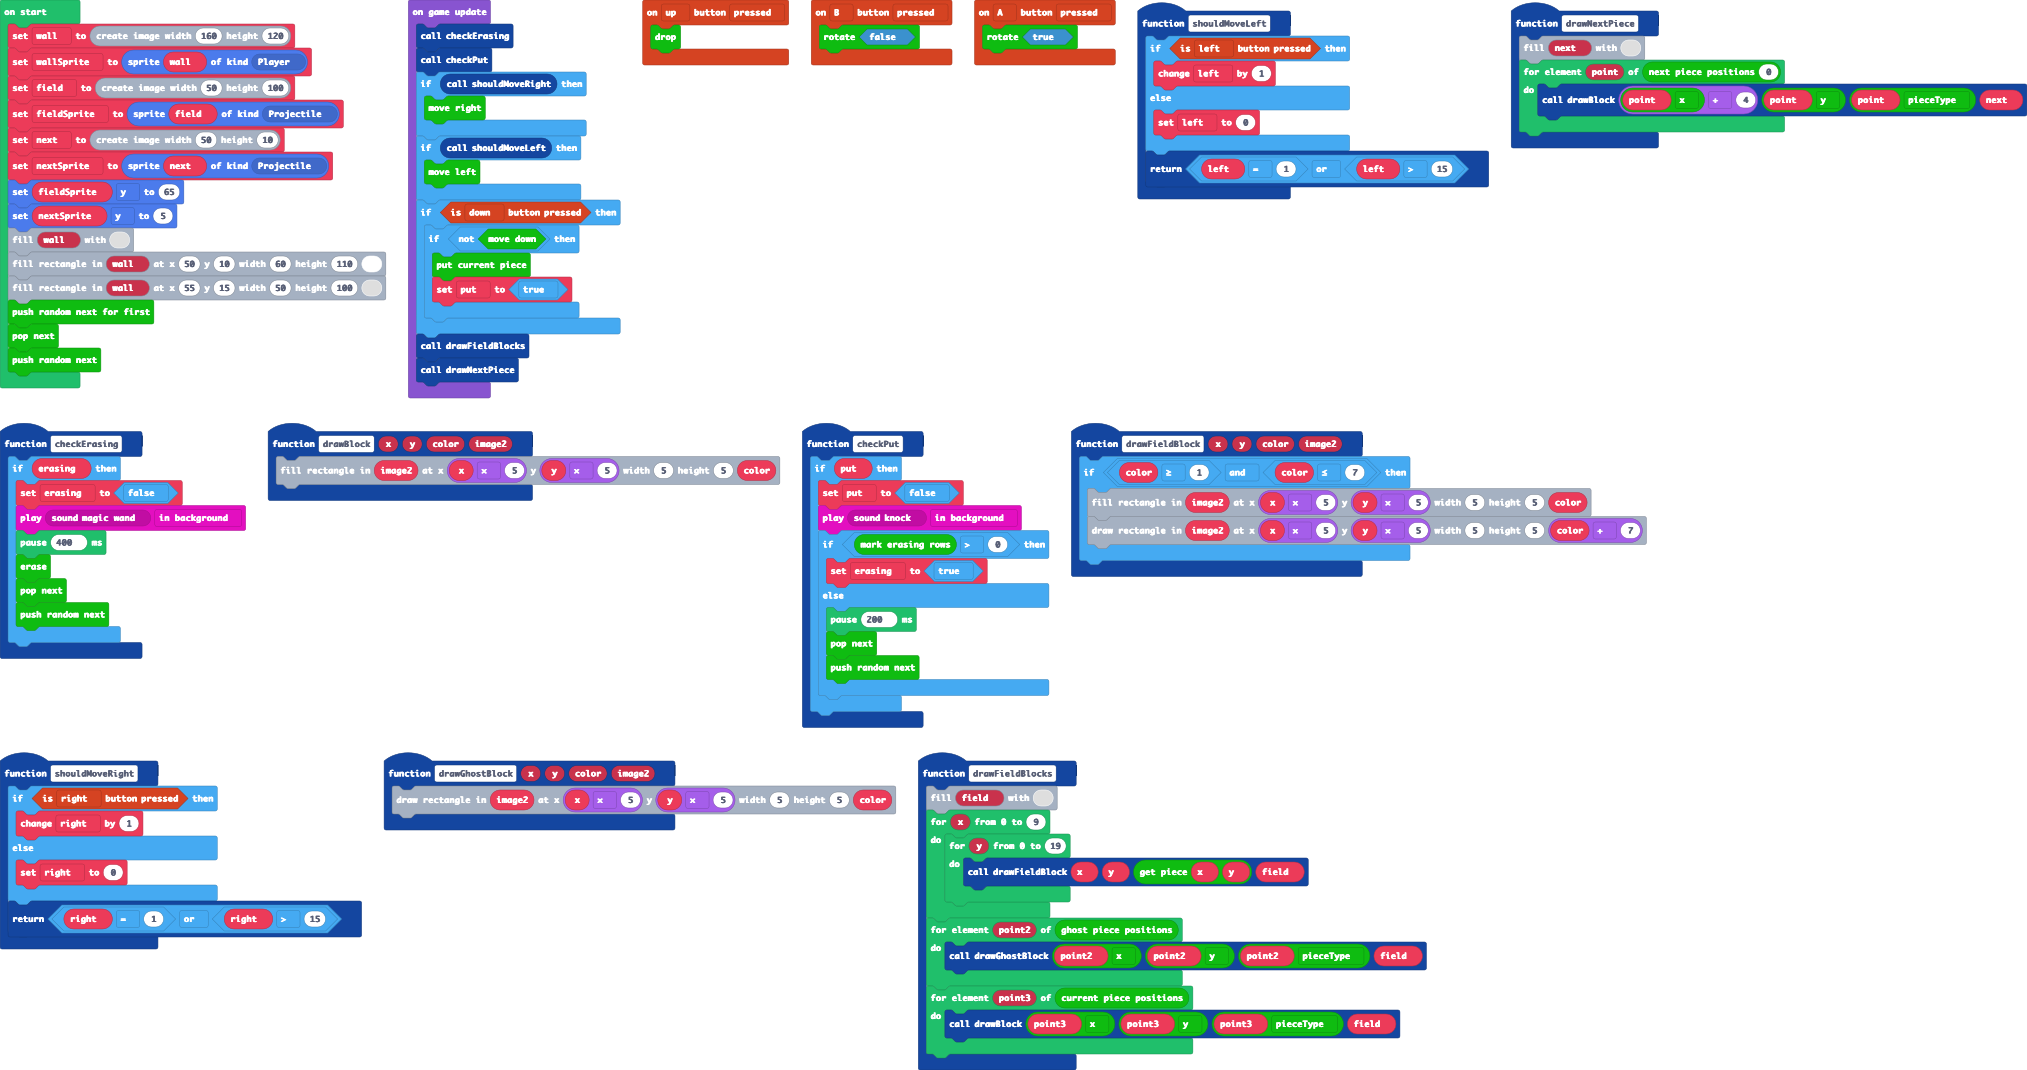
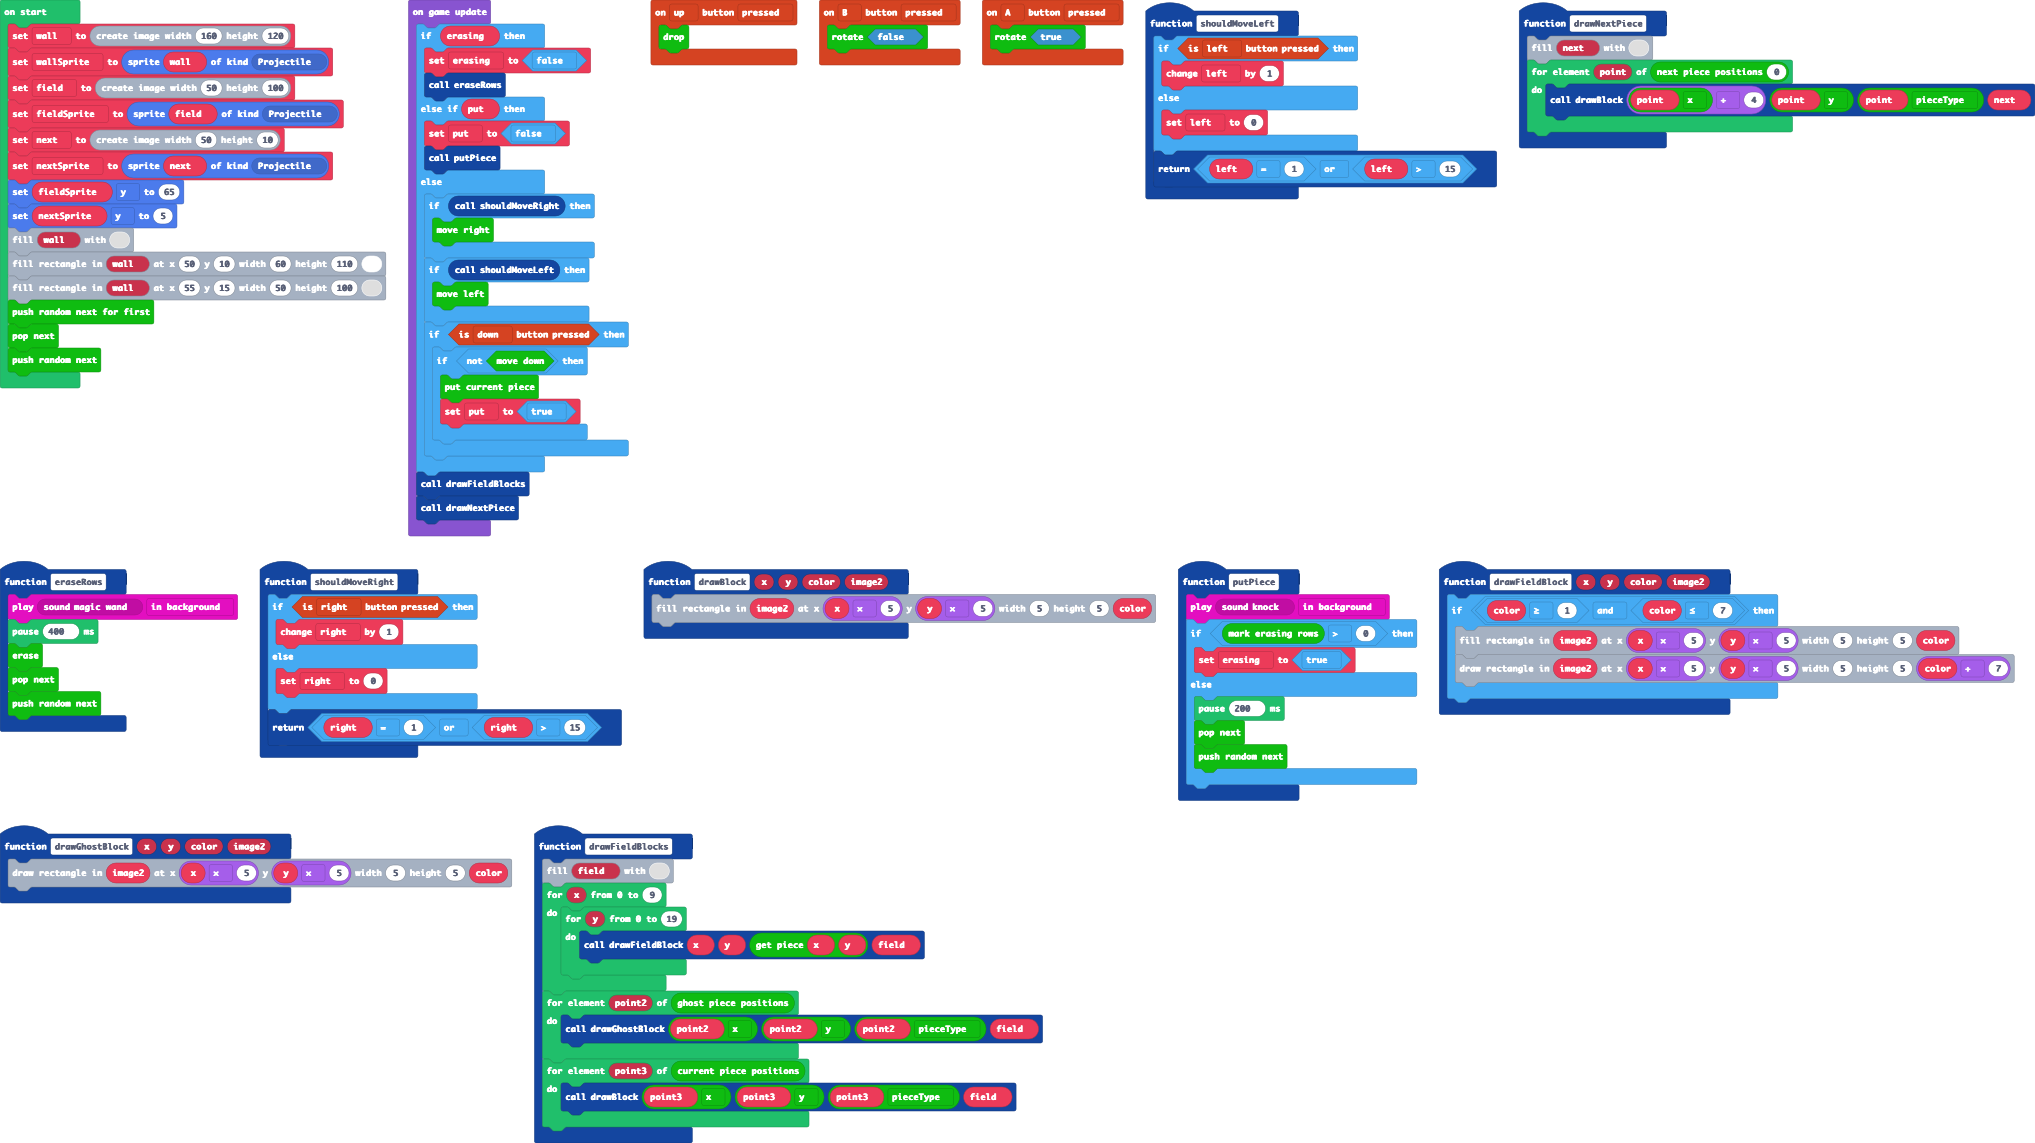
Fix

diff --git a/main.ts b/main.ts
@@ -35,28 +35,22 @@ function drawFieldBlocks () {
         drawBlock(point3.x, point3.y, point3.pieceType, field)
     }
 }
-function checkErasing () {
-    if (erasing) {
-        erasing = false
-        music.play(music.melodyPlayable(music.magicWand), music.PlaybackMode.InBackground)
-        pause(400)
-        TGM.erase()
+function putPiece () {
+    music.play(music.melodyPlayable(music.knock), music.PlaybackMode.InBackground)
+    if (TGM.markErasingRows() > 0) {
+        erasing = true
+    } else {
+        pause(200)
         TGM.popNext()
         TGM.pushRandomNext()
     }
 }
-function checkPut () {
-    if (put) {
-        put = false
-        music.play(music.melodyPlayable(music.knock), music.PlaybackMode.InBackground)
-        if (TGM.markErasingRows() > 0) {
-            erasing = true
-        } else {
-            pause(200)
-            TGM.popNext()
-            TGM.pushRandomNext()
-        }
-    }
+function eraseRows () {
+    music.play(music.melodyPlayable(music.magicWand), music.PlaybackMode.InBackground)
+    pause(400)
+    TGM.erase()
+    TGM.popNext()
+    TGM.pushRandomNext()
 }
 function drawFieldBlock (x: number, y: number, color: number, image2: Image) {
     if (color >= 1 && color <= 7) {
@@ -78,14 +72,14 @@ function shouldMoveRight () {
 function drawGhostBlock (x: number, y: number, color: number, image2: Image) {
     image2.drawRect(x * 5, y * 5, 5, 5, color)
 }
-let right = 0
 let put = false
+let right = 0
 let erasing = false
 let left = 0
 let next: Image = null
 let field: Image = null
 let wall = image.create(160, 120)
-let wallSprite = sprites.create(wall, SpriteKind.Player)
+let wallSprite = sprites.create(wall, SpriteKind.Projectile)
 field = image.create(50, 100)
 let fieldSprite = sprites.create(field, SpriteKind.Projectile)
 next = image.create(50, 10)
@@ -99,18 +93,24 @@ TGM.pushRandomNextForFirst()
 TGM.popNext()
 TGM.pushRandomNext()
 game.onUpdate(function () {
-    checkErasing()
-    checkPut()
-    if (shouldMoveRight()) {
-        TGM.moveRight()
-    }
-    if (shouldMoveLeft()) {
-        TGM.moveLeft()
-    }
-    if (controller.down.isPressed()) {
-        if (!(TGM.moveDown())) {
-            TGM.putCurrentPiece()
-            put = true
+    if (erasing) {
+        erasing = false
+        eraseRows()
+    } else if (put) {
+        put = false
+        putPiece()
+    } else {
+        if (shouldMoveRight()) {
+            TGM.moveRight()
+        }
+        if (shouldMoveLeft()) {
+            TGM.moveLeft()
+        }
+        if (controller.down.isPressed()) {
+            if (!(TGM.moveDown())) {
+                TGM.putCurrentPiece()
+                put = true
+            }
         }
     }
     drawFieldBlocks()
